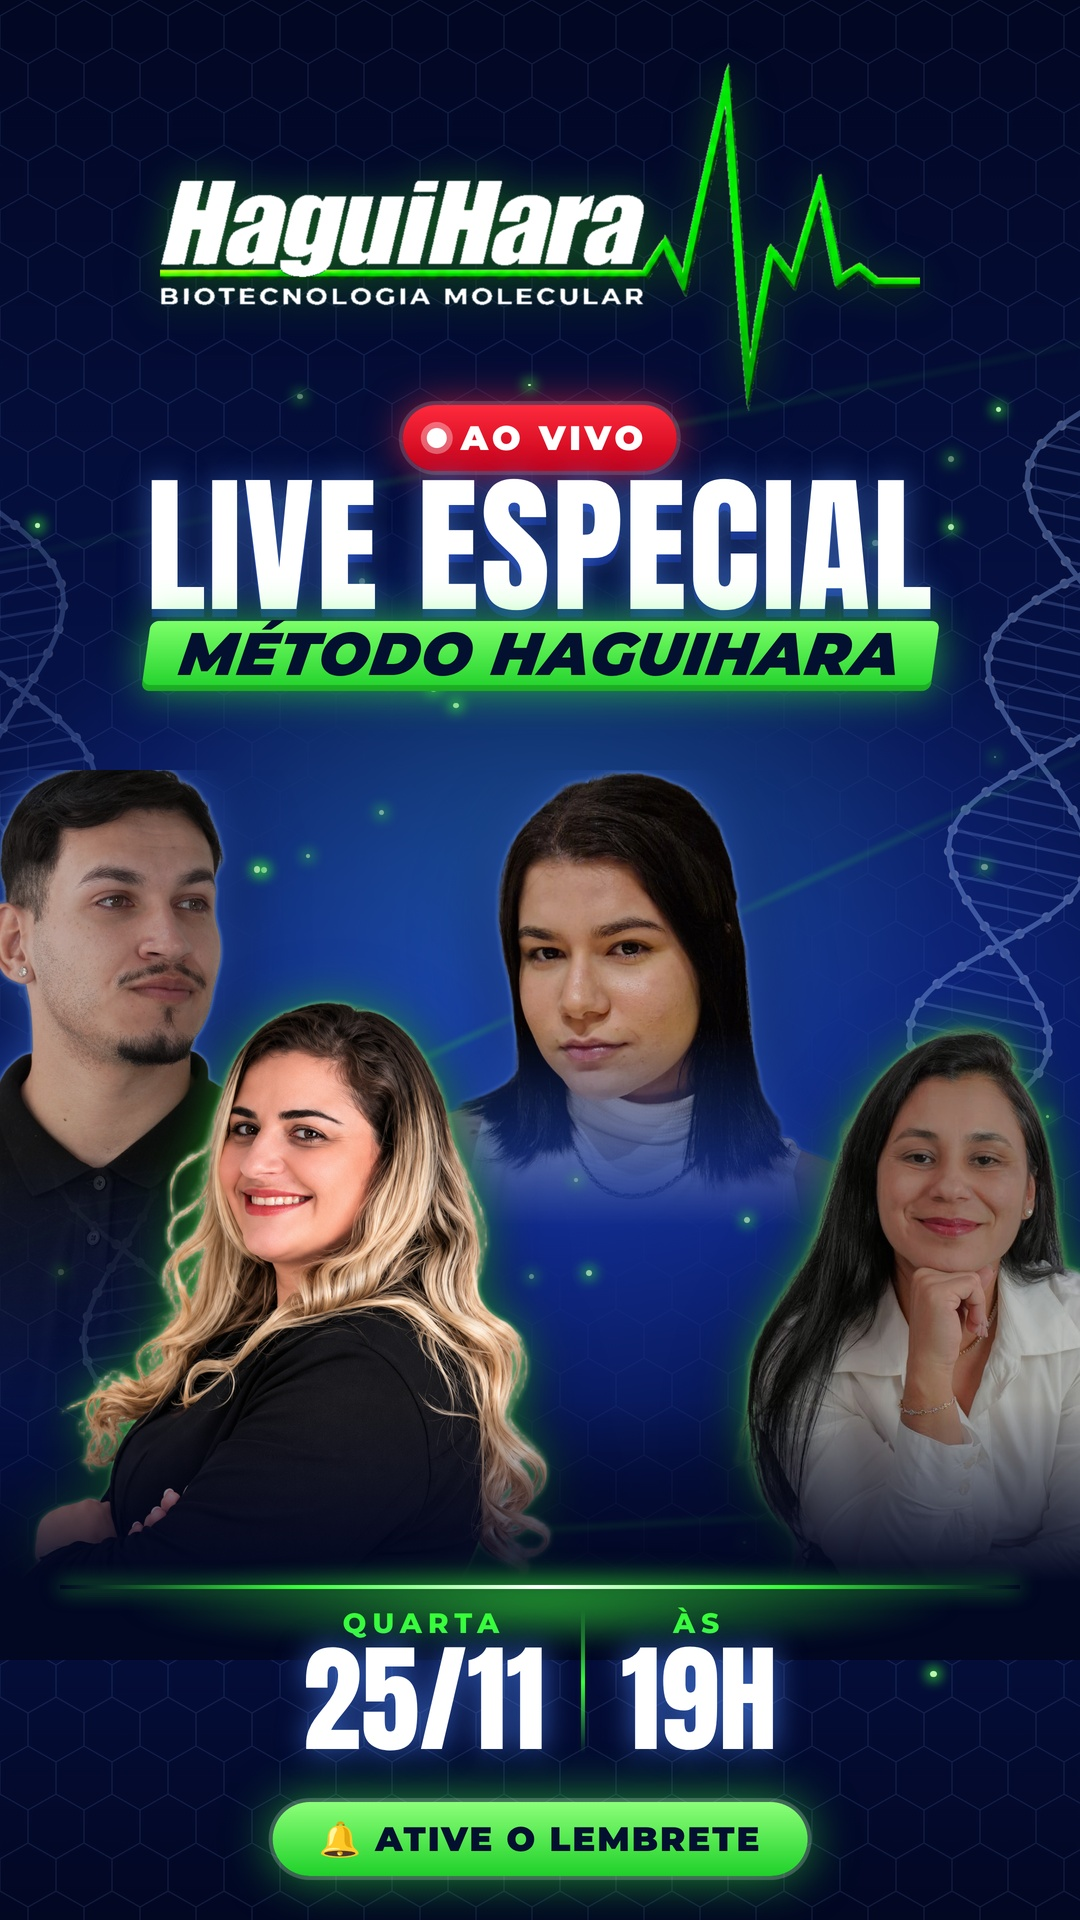
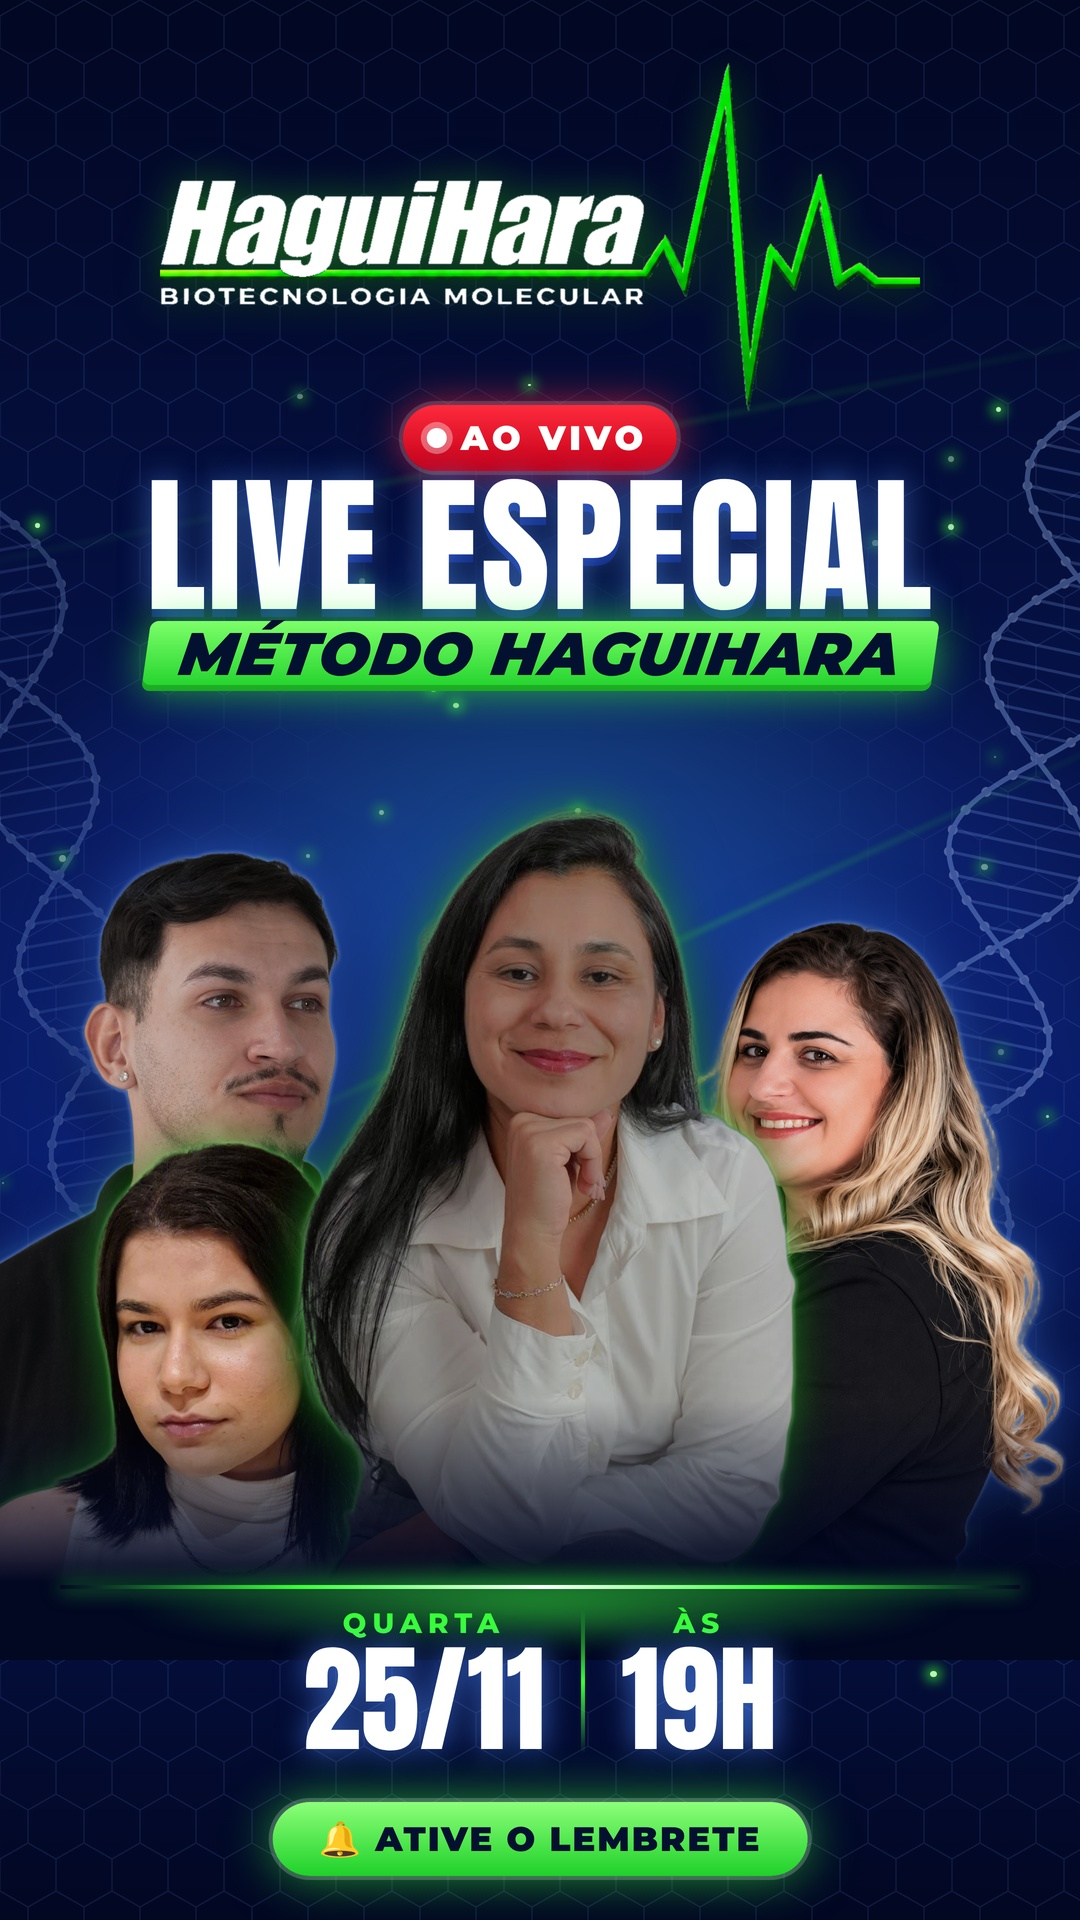
Reorganiza pessoas da thumbnail em pirâmide
Claude-Session: https://claude.ai/code/session_01K6wviLC7jNScPwdNJSoC5f

diff --git a/thumbnails/live-25-11/projeto.html b/thumbnails/live-25-11/projeto.html
@@ -29,7 +29,7 @@ svg.bg{position:absolute;inset:0}
 .people{position:absolute;left:0;right:0;top:770px;height:830px;z-index:2;overflow:hidden}
 .p{position:absolute;bottom:0;
  filter:drop-shadow(0 0 2px rgba(150,255,140,.9)) drop-shadow(0 0 22px rgba(57,255,58,.45)) drop-shadow(0 20px 30px rgba(0,0,0,.7))}
-.back{-webkit-mask-image:linear-gradient(180deg,#000 55%,transparent 97%);filter:brightness(.9) drop-shadow(0 0 2px rgba(150,190,255,.9)) drop-shadow(0 0 24px rgba(60,120,255,.6)) drop-shadow(0 20px 30px rgba(0,0,0,.7))}
+.back{filter:brightness(.92) drop-shadow(0 0 2px rgba(150,190,255,.9)) drop-shadow(0 0 24px rgba(60,120,255,.6)) drop-shadow(0 20px 30px rgba(0,0,0,.7))}
 .fade{position:absolute;left:0;right:0;top:1400px;height:260px;z-index:3;
  background:linear-gradient(180deg,transparent,#020722 70%)}
 .floor{position:absolute;left:50%;top:1545px;width:1200px;height:120px;transform:translateX(-50%);z-index:3;
@@ -53,10 +53,14 @@ svg.bg{position:absolute;inset:0}
  <div class="badge"><i></i>AO VIVO</div>
  <div class="title"><div class="t1">LIVE ESPECIAL</div><div class="t2">MÉTODO HAGUIHARA</div></div>
  <div class="people">
-  <img class="p back" src="recortes/p2.png" style="height:720px;left:-130px;bottom:120px">
-  <img class="p back" src="recortes/p3.png" style="height:470px;left:395px;bottom:360px">
-  <img class="p" src="recortes/p4.png" style="height:650px;right:-60px;bottom:-70px">
-  <img class="p" src="recortes/p1.png" style="height:690px;left:10px;bottom:-90px">
+  <!-- Você (sup. esquerda, atrás) -->
+  <img class="p back" src="recortes/p2.png" style="height:770px;left:-40px;bottom:-20px">
+  <!-- Anne (direita) -->
+  <img class="p back" src="recortes/p1.png" style="height:700px;left:516px;bottom:-20px">
+  <!-- Yasmin (inf. esquerda) -->
+  <img class="p" src="recortes/p3.png" style="height:480px;left:-10px;bottom:-20px">
+  <!-- Grazi (centro, frente) -->
+  <img class="p" src="recortes/p4.png" style="height:820px;left:283px;bottom:-20px">
  </div>
  <div class="fade"></div>
  <div class="floor"></div>
